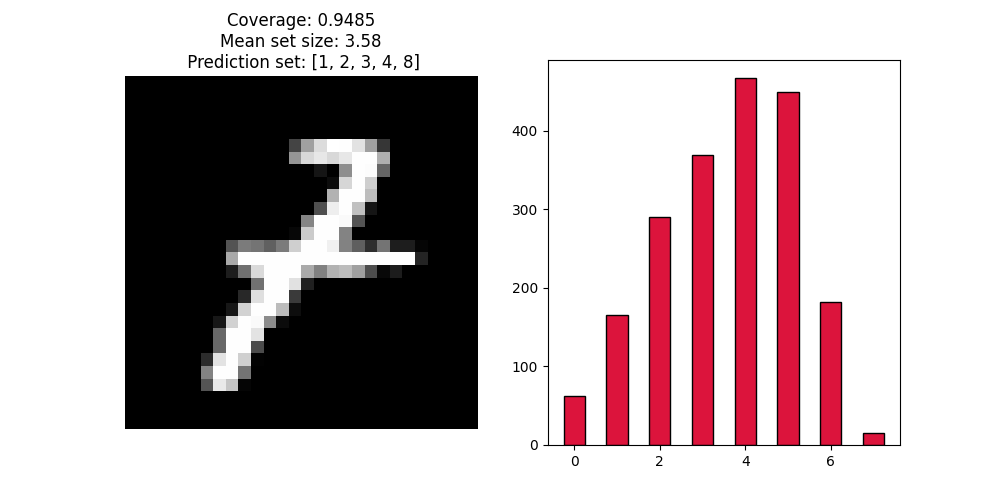
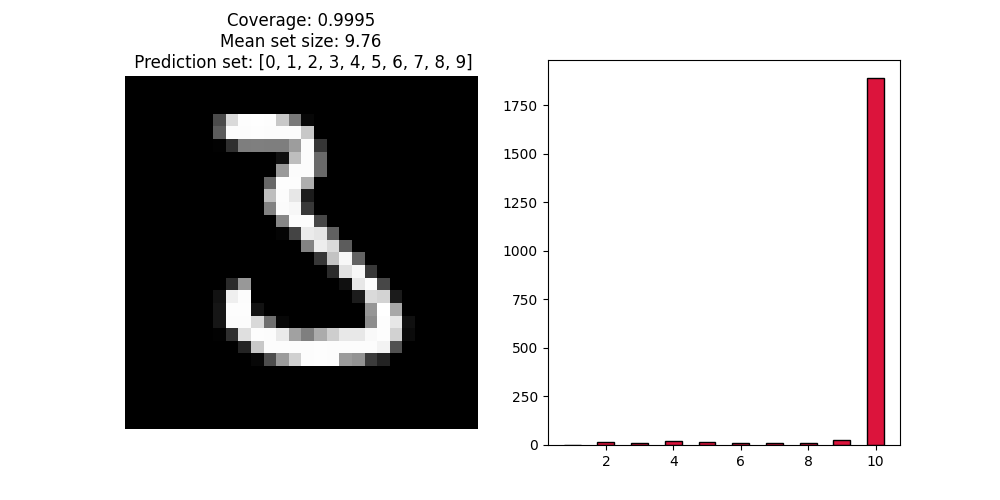
switch graphs

diff --git a/adaptiveprediction.py b/adaptiveprediction.py
@@ -17,8 +17,8 @@ M = 2000 #test
 n = 3000
 alpha = 0.05
 
-model = classifier1.Net()
-model.load_state_dict(torch.load("models/mnist_bad.pth"))
+model = classifier2.Net()
+model.load_state_dict(torch.load("models/mnist_good.pth"))
 model.eval()
 
 data = MNIST(
